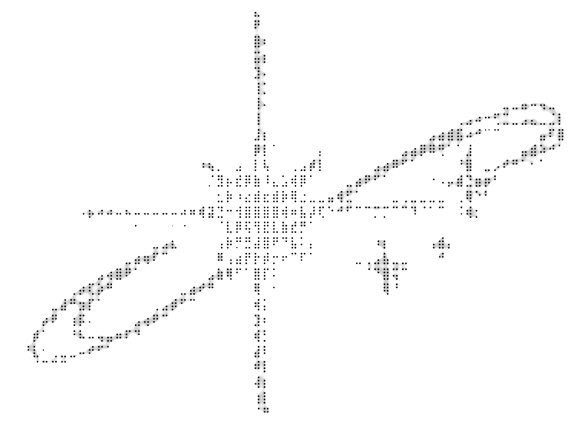
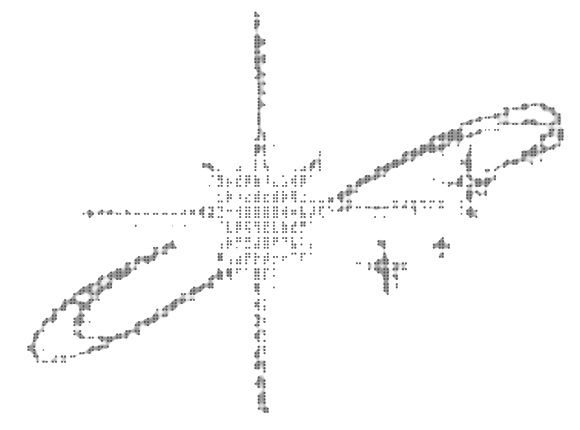
dark mode

diff --git a/src/App.js b/src/App.js
@@ -28,17 +28,17 @@ function App() {
   }, []);
   return (
     <div className={'grain-overlay'} style={{
-      // background: 'var(--app-background)',
-      backgroundImage: "url('/grain.png')",
-      backgroundSize: 'cover',
-      zIndex: 100000,
+      background: 'var(--app-background)',
+      // backgroundImage: "url('/grain.png')",
+      // backgroundSize: 'cover',
+      // zIndex: 100000,
       color: 'var(--font-color)', maxHeight: '100vh', minHeight: '100vh', width: '100vw', padding: 0, margin: 0, overflow: 'hidden'}} className="App">
       {positions.map((pos, index) => (
         <div
           key={index}
           // src={ pos.src }
         className={"drift " + (index % 2 === 0 ? 'image' : 'image2')}
-          style={{ color: 'var(--title-color)', position: 'absolute', left: pos.left, top: pos.top, fontSize: pos.width }}
+          style={{ color: 'var(--font-color)', position: 'absolute', left: pos.left, top: pos.top, fontSize: pos.width }}
           alt={`Drifting Image ${index + 1}`}
         >{pos.src}</div>
       ))}
@@ -66,17 +66,17 @@ function App() {
           // className="rotating-image2"
         />
         <img
-          style={{ position: 'absolute', left: '88%', top: '45%', height: 200 }}
+          style={{ opacity: 0.7, position: 'absolute', left: '88%', top: '45%', height: 200 }}
           src={  '/starry.png' }
           className="imagebg"
         />
         <img
-          style={{opacity: 0.7, position: 'absolute', left: '17%', top: '-9%', height: 250 }}
+          style={{opacity: 0.4, position: 'absolute', left: '17%', top: '-9%', height: 250 }}
           src={  '/fairy.png' }
           className="imagebg"
         />
          <img
-          style={{ position: 'absolute', left: '-5%', top: '15%', height: 250 }}
+          style={{ opacity: 0.7, position: 'absolute', left: '-5%', top: '15%', height: 250 }}
           src={  '/starry.png' }
           className="imagebg"/>
 

diff --git a/src/Components/Output.css b/src/Components/Output.css
@@ -1,7 +1,7 @@
 @keyframes bounce {
     0%, 100% {
       transform: translate(10px, -10px);
-      opacity: 0.5;
+      opacity: 0.4;
     }
     /* 25% {
       transform: translate(150px, -50px);
@@ -9,7 +9,7 @@
     } */
     50% {
       transform: translate(5px, 10px);
-      opacity: 0.2;
+      opacity: 0.1;
     }
     /* 75% {
       transform: translate(-100px, 50px);
@@ -43,7 +43,7 @@
   @keyframes bounce2 {
     0%, 100% {
       transform: translate(0px, 0px);
-      opacity: 0.3;
+      opacity: 0.1;
     }
     /* 25% {
       transform: translate(-150px, -200px);
@@ -52,7 +52,7 @@
 
     50% {
       transform: translate(-7px, 10px);
-      opacity: 0.7;
+      opacity: 0.5;
     }
     /* 75% {
       transform: translate(100px, -50px);
@@ -68,22 +68,22 @@
   }
 
   .drift {
-    filter: drop-shadow(5px 5px 3px rgb(236, 236, 236));
+    filter: drop-shadow(0px 0px 3px rgb(236, 236, 236));
   }
 
   .imagebg {
     position: absolute;
     animation: bouncebg 20s infinite ease-in-out;
-    filter: drop-shadow(5px 5px 3px rgb(236, 236, 236));
+    filter: drop-shadow(5px 5px 10px rgb(184, 184, 184, 0.3));
     user-select: none;
     -webkit-user-drag: none;
     transform: scale(1); /* Initial scale */
     transition: transform 0.3s ease;
   }
 
-  .imagebg:hover {
-    transform: scale(1.02) !important; /* Scale up by 20% on hover */
-  }
+  /* .imagebg:hover {
+    transform: scale(1.02) !important;
+  } */
 
   .image2 {
     width: 15px; /* Adjust sizeac as needed */

diff --git a/src/App.css b/src/App.css
@@ -2,12 +2,12 @@
 @import url('https://fonts.googleapis.com/css2?family=Cormorant+Garamond:ital,wght@0,300;0,400;0,500;0,600;0,700;1,300;1,400;1,500;1,600;1,700&family=Courier+Prime:ital,wght@0,400;0,700;1,400;1,700&family=Cutive+Mono&family=Fredericka+the+Great&family=Jacquarda+Bastarda+9&family=Kode+Mono:wght@400..700&family=Syne+Mono&family=VT323&display=swap');
 
 :root {
-  --dark-color: #4a4a4a; /* Define the color variable */
-  --border: 1px solid rgb(236, 236, 236);
+  --dark-color: #2f2f2f; /* Define the color variable */
+  --border: 0.5px dashed rgb(236, 236, 236);
   --font-fam: 'Syne Mono';
   --font-color: rgb(225, 225, 225);
-  --title-color: rgb(31, 31, 31);
-  --app-background: rgb(212, 212, 212);
+  --title-color: rgb(46, 46, 46);
+  --app-background: rgb(33, 33, 33);
   --title-url: '/title.png';
   --font-size: 14px !important;
 }
